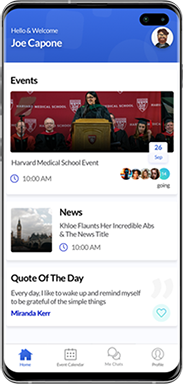
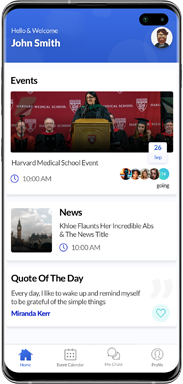
chnage slider image

diff --git a/index.html b/index.html
@@ -170,7 +170,7 @@
 			<div class="col-lg-9 col-md-9 col-sm-12 col-12 mrtop5">
 				<div id="carousel" class="owl-carousel owl-theme"> 
 				  <div class="item ">
-				  	<img src="assets/images/slider11.png"  class="d-block list-mobile img-fluid img-70" />
+				  	<img src="assets/images/slider1.png"  class="d-block list-mobile img-fluid" />
 				  </div>
 				  <div class="item ">
 				  	<img src="assets/images/slider2.png"  class="d-block m-auto img-fluid" />
@@ -179,7 +179,7 @@
 				  	<img src="assets/images/slider3.png"  class="d-block list-mobile img-fluid" />
 				  </div>
 				  <div class="item ">
-				  	<img src="assets/images/slider11.png"  class="d-block list-mobile img-fluid img-70" />
+				  	<img src="assets/images/slider1.png"  class="d-block list-mobile img-fluid" />
 				  </div>
 				  <div class="item ">
 				  	<img src="assets/images/slider2.png"  class="d-block m-auto img-fluid" />
